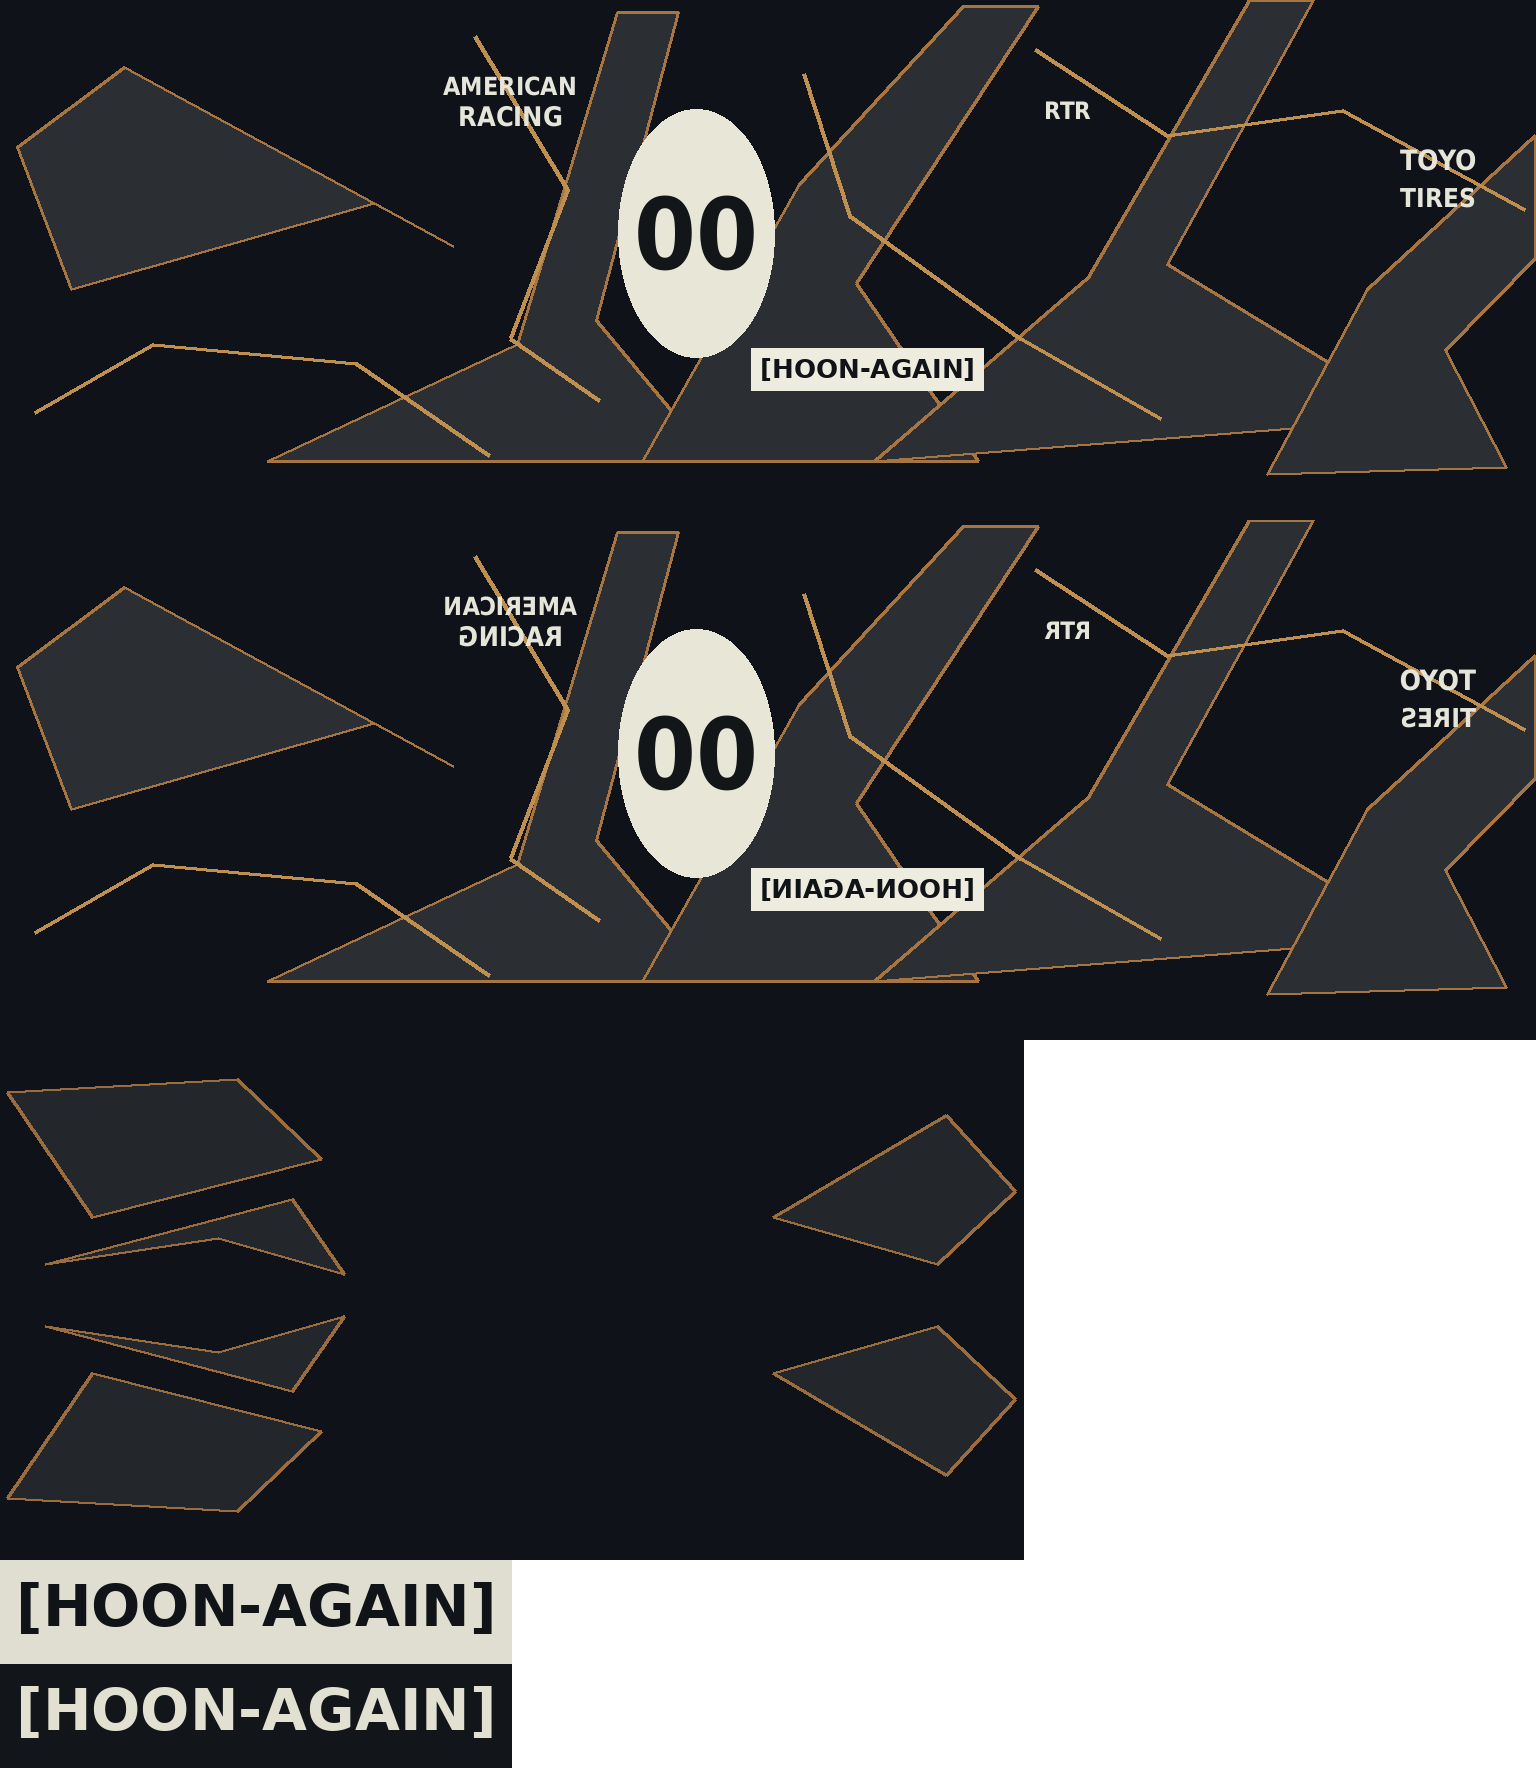
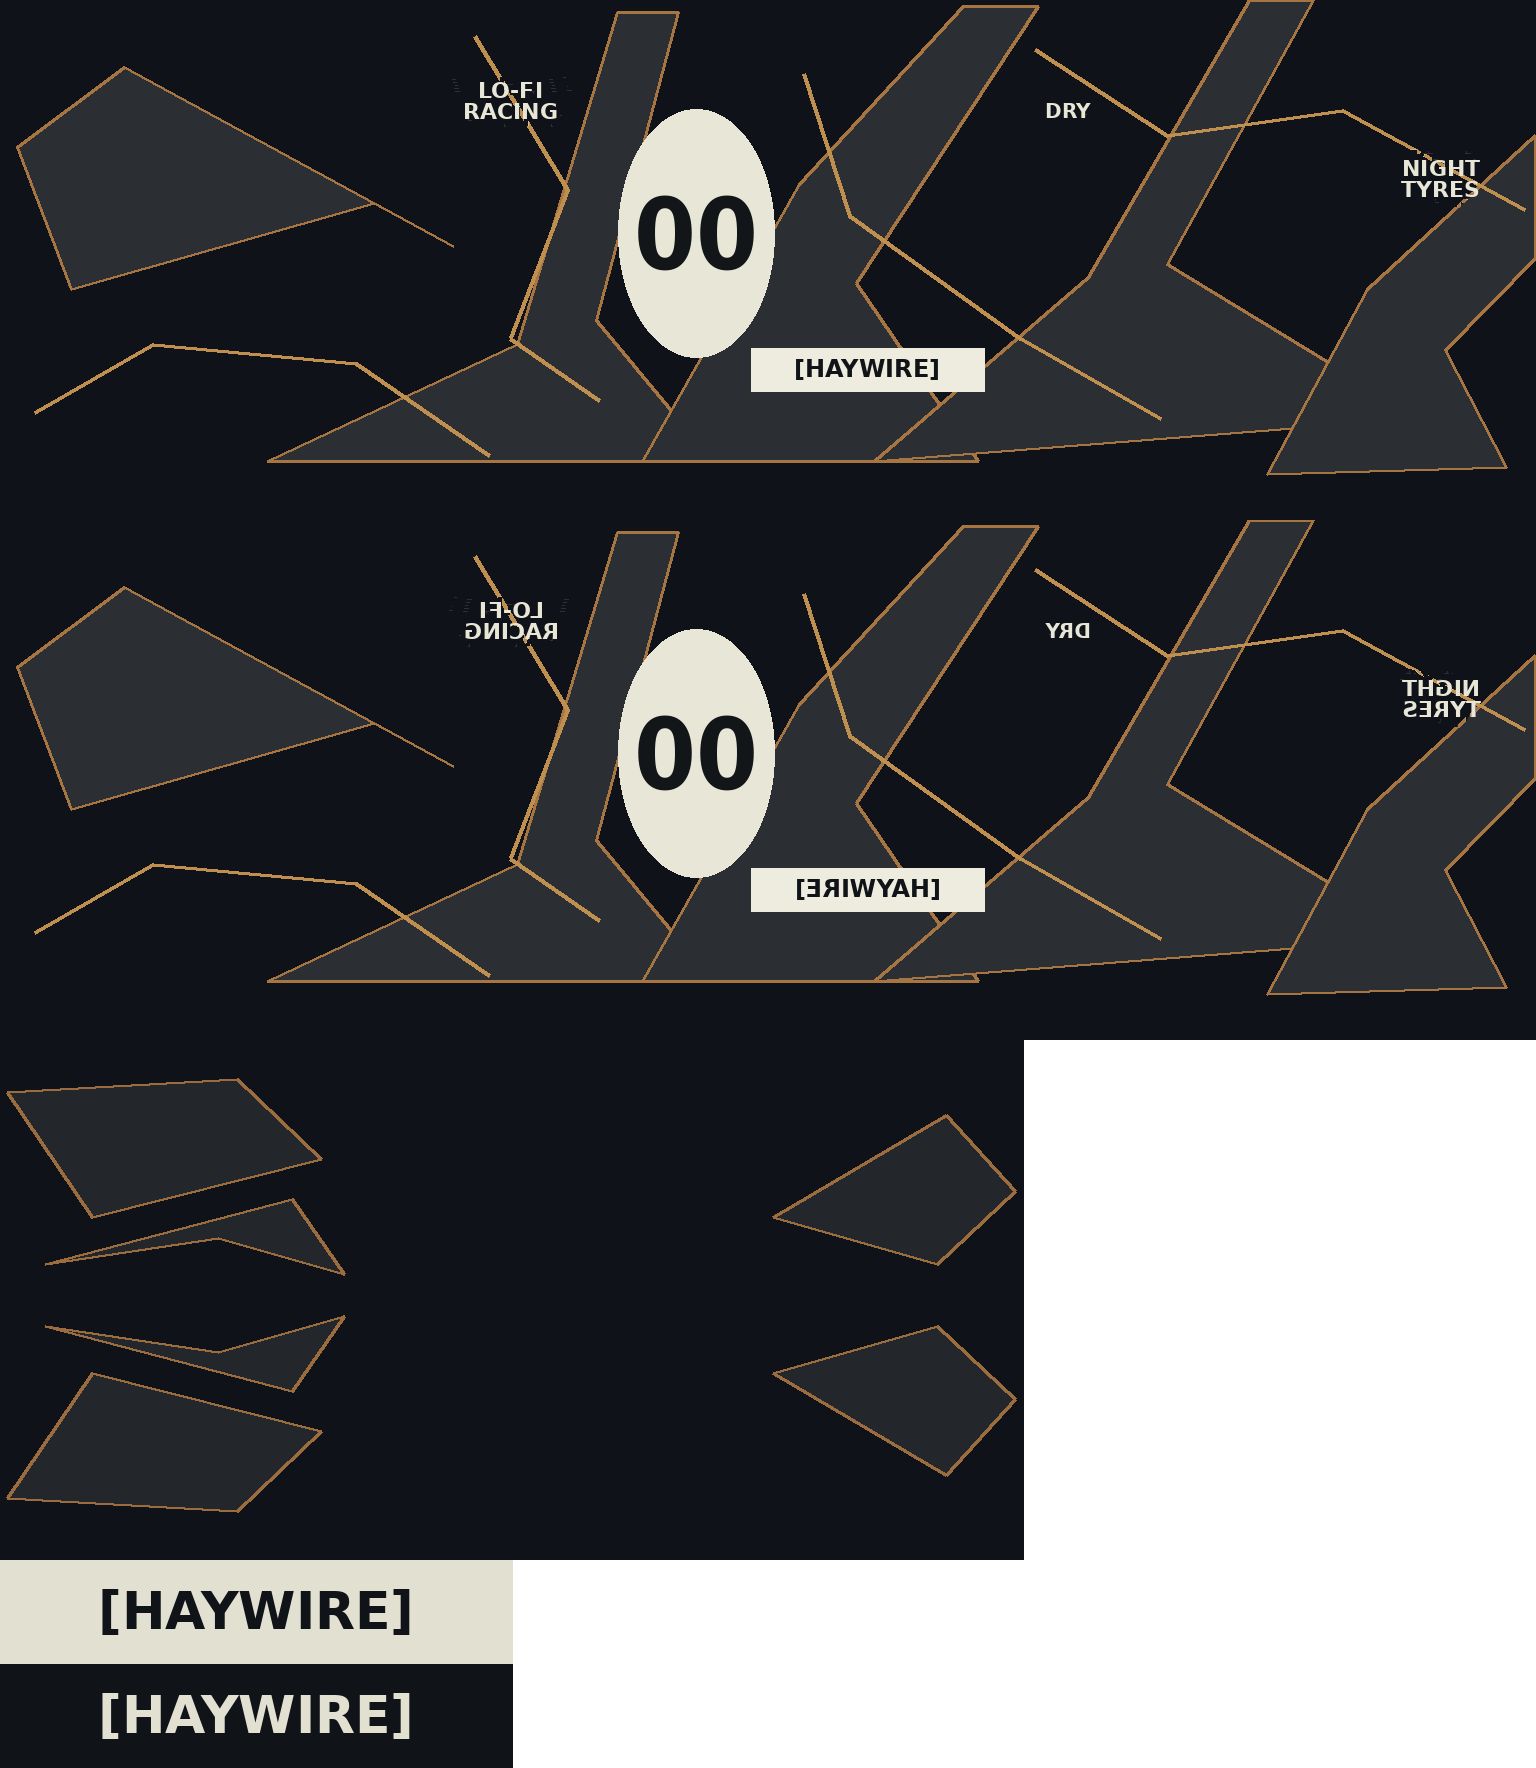
Rename the legendaries: Haywire and Mountain Ghost; scrub real sponsor lettering from the Haywire livery
The Haywire's atlas now reads LO-FI RACING, DRY, NIGHT TYRES and [HAYWIRE]
in place of the real sponsor and brand text. The Mountain Ghost carries no
lettering.

Claude-Session: https://claude.ai/code/session_01WKwWtBG1nDVNqfLmMpQ4UG

diff --git a/README.md b/README.md
@@ -181,10 +181,10 @@ on cars and upgrades. The day runs in real time on the island and the season fol
   The drivers on the road don't hop.
 - The garage: 20 cars (each with its own power, top speed, grip and drift), plus four upgrades that
   work on every car you own (engine, turbo, tyres, steering angle).
-- The legendary Trunoh 86 (20,000 coins): a panda-coloured hatch, white over black, with pop-up lamps
+- The legendary Mountain Ghost ($20,000): a panda-coloured hatch, white over black, with pop-up lamps
   and a louvred back window. Light and high-revving: not the fastest in a straight line, but the
   tightest, quickest-switching drifter there is.
-- The legendary Hoon-Again (20,000 coins, last in the garage): a black widebody with gold fracture
+- The legendary Haywire ($20,000, last in the garage): a black widebody with gold fracture
   livery, the 00 roundel and taped-X headlamps. The quickest car in the game (0-100 in 4.8 s) and the
   slidiest: it holds drifts about 10 degrees deeper than anything else, and still doesn't spin.
 - 46 trophies, each paying coins once (among them winning a race on Hard and winning every race,
@@ -429,7 +429,7 @@ on cars and upgrades. The day runs in real time on the island and the season fol
 | `scripts/game/crew.gd` | The drivers: roaming, swapping numbers, your crew following your line, tandem drifts, the police after them |
 | `scripts/ui/phone.gd` | The phone: your contacts, Call and Send off |
 | `scripts/game/race.gd` | Races: the racing line (the streets' middle, or a route along the roads, pulled tight within their width, with a speed for every metre and crests capped), the difficulty levels, the CPU drivers (follow, pass, back off, recover), checkpoints, laps and places |
-| `tools/cars/bake_glb_car.gd` | Bakes a car made as a glTF (the Hoon-Again, the Trunoh 86) the same way: vertex colours, wheels split out, big plain parts simplified, its livery kept as UVs into one atlas (`assets/cars/<key>_detail.png`) that the toon shader reads through the `car_detail` global |
+| `tools/cars/bake_glb_car.gd` | Bakes a car made as a glTF (the Haywire, the Mountain Ghost) the same way: vertex colours, wheels split out, big plain parts simplified, its livery kept as UVs into one atlas (`assets/cars/<key>_detail.png`) that the toon shader reads through the `car_detail` global |
 | `tools/cars/export_paints.gd` | Bakes each car's other liveries as per-vertex colour rows (`assets/cars/*_paints.res`) |
 
 There are no autoloads and no `class_name`s, so an update pack can replace any script before it loads.
